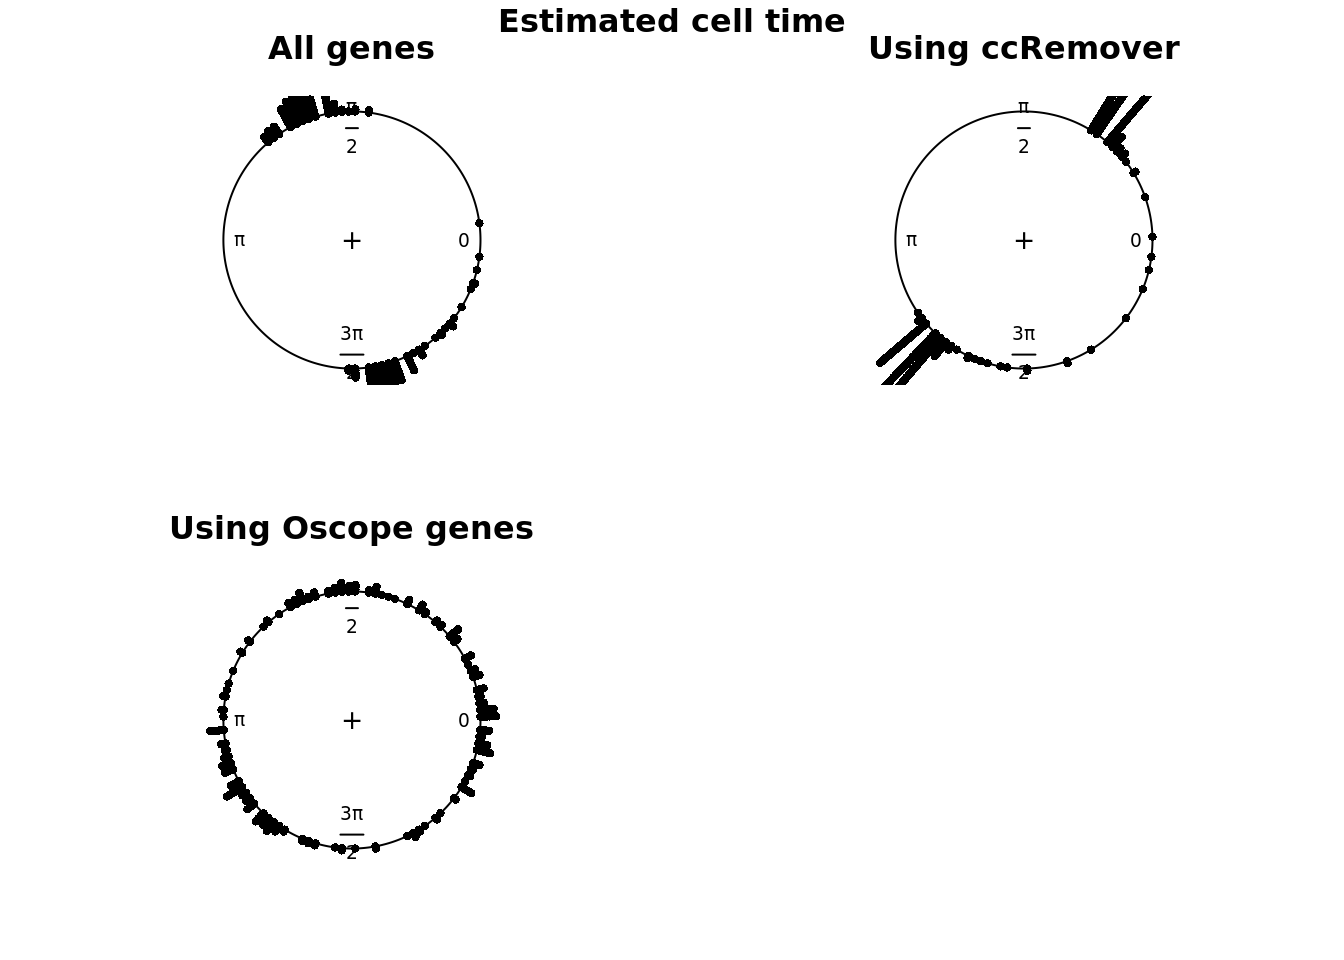
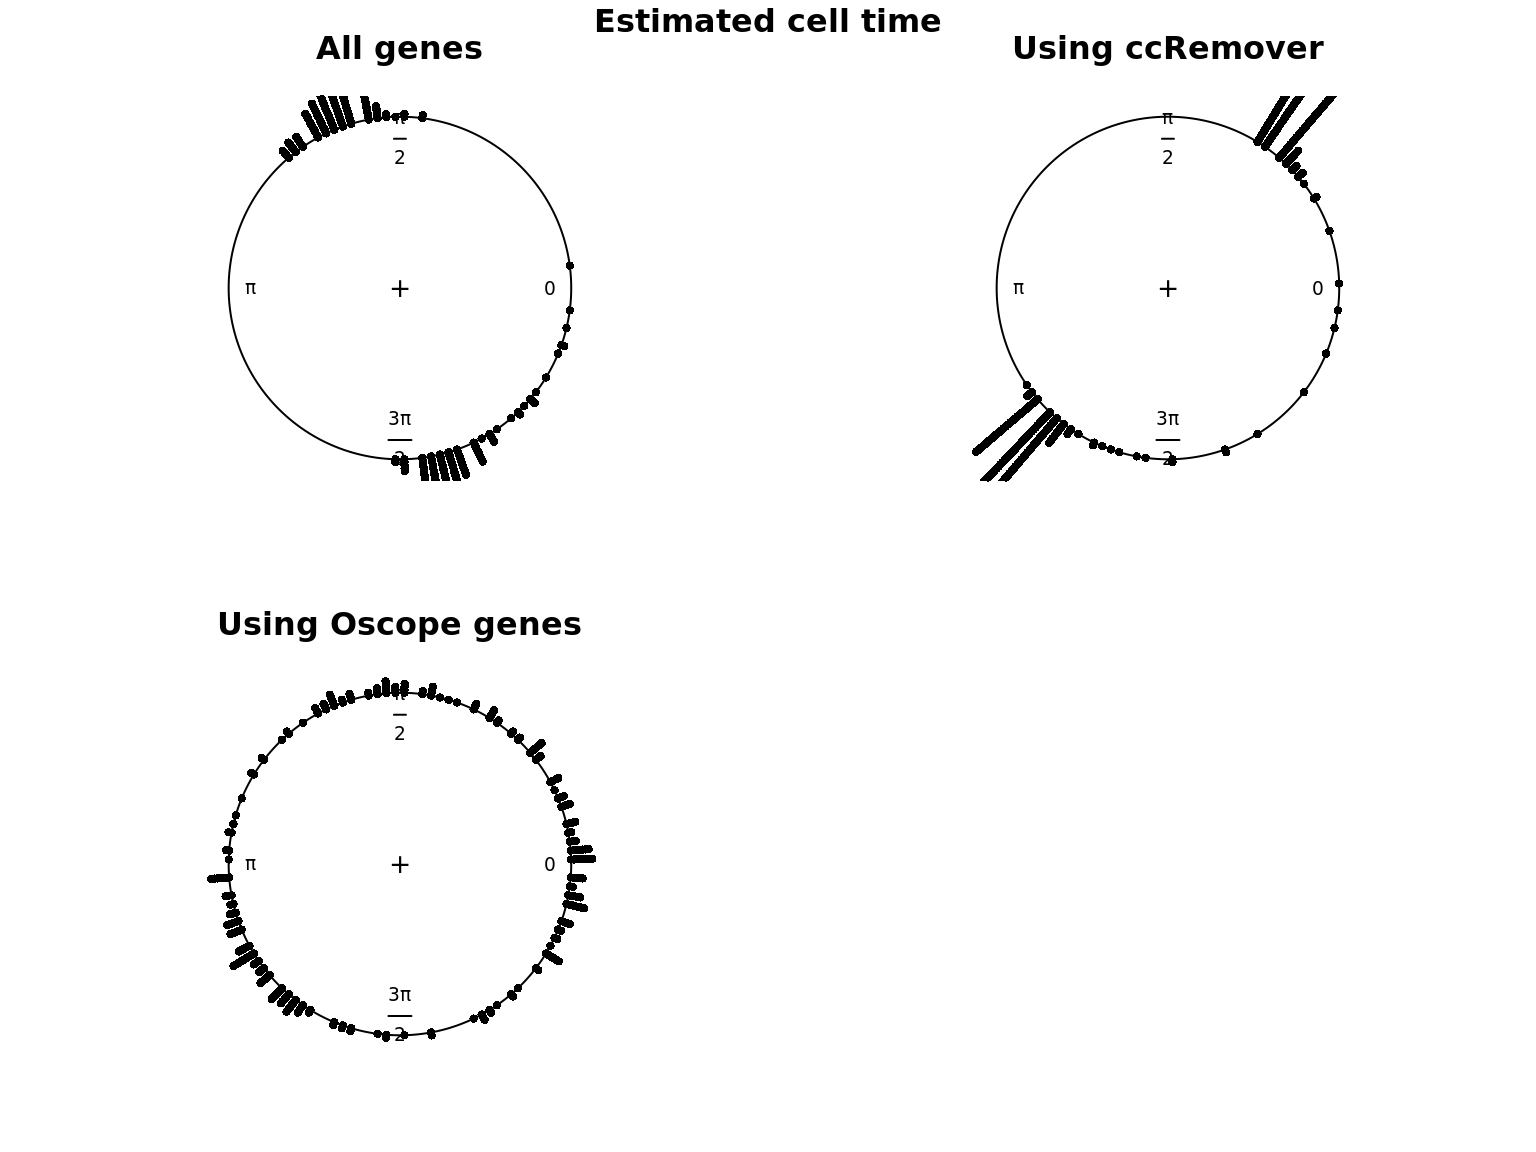
Build site.

diff --git a/docs/cellcycler-seqdata-leng.html b/docs/cellcycler-seqdata-leng.html
@@ -322,7 +322,7 @@ shared across the workflowr files. -->
 <p><strong>Last updated:</strong> 2018-02-08</p>
 <!-- Insert the code version (Git commit SHA1) if Git repository exists and R
  package git2r is installed -->
-<p><strong>Code version:</strong> fe90f57</p>
+<p><strong>Code version:</strong> 52e86d1</p>
 <hr />
 <div id="overviewresults" class="section level2">
 <h2>Overview/Results</h2>
@@ -333,6 +333,7 @@ shared across the workflowr files. -->
 <pre><code>1. Cell time estimates: Should span 0 to 2pi give that the samples collected including somewhat similar number of cells from each phase. This was observed for results using Oscope genes (29) but not for results using all genes or cell cycle annotated genes.
 
 2. Cell order: We exepct that at least the ordering of cells by cell time should match with the fucci-labeled cell cycle phases. This was the case for results using Oscope genes (29) but not for results using all genes or cell cycle annotated genes. </code></pre>
+<p>Additional analysis: I was thinking that perhaps cellcycleR doesn’t perform well when the number of cells in the different phases is uneven. And this could explain the poor performance on the fucci data. Or from the method perspective, it could be that the model doesn’t accommodate skewed/distored oscillation patterns in the data. I then created a dataset from the Leng data where there’s only 10 cells in G1. Results show that (at the end of this page) most G1 cells are estimated to be similar to G2 cells according to the estimated cell ordering…</p>
 <hr />
 </div>
 <div id="data-and-packages" class="section level2">
@@ -396,8 +397,8 @@ colnames(log2cpm_leng_z) &lt;- colnames(log2cpm_leng)</code></pre>
 <p><img src="figure/cellcycler-seqdata-leng.Rmd/unnamed-chunk-3-1.png" width="672" style="display: block; margin: auto;" /></p>
 <hr />
 </div>
-<div id="analysis" class="section level2">
-<h2>Analysis</h2>
+<div id="main-analysis" class="section level2">
+<h2>Main analysis</h2>
 <p>Fitting cellcycleR using the same 3 random seeds for each analysis.</p>
 <pre class="r"><code>seeds &lt;- c(101,231,456)
 
@@ -441,33 +442,54 @@ fit_leng_oscope &lt;- fit_leng_oscope_list[[which.max(sapply(fit_leng_oscope_lis
 <div id="results" class="section level2">
 <h2>Results</h2>
 <p>Distribution of cell times</p>
-<pre class="r"><code>par(mfrow=c(2,2), mar=c(3,2,3,1))
-xy &lt;- data.frame(x=fit_leng$cell_times,
-                 y=droplevels(pdata_leng$cell_state))
-xy &lt;- xy[order(xy$x),]
-plot(circular(xy$x, units=&quot;radians&quot;), pch=16, cex=.7,
-     main = &quot;All genes&quot;, stack=T, bins=120)
-
-xy &lt;- data.frame(x=fit_leng_ccremover$cell_times,
-                 y=droplevels(pdata_leng$cell_state))
-xy &lt;- xy[order(xy$x),]
-plot(circular(xy$x, units=&quot;radians&quot;), pch=16, cex=.7,
-     main = &quot;Using ccRemover&quot;, stack=T, bins=120)
-
-xy &lt;- data.frame(x=fit_leng_oscope$cell_times,
-                 y=droplevels(pdata_leng$cell_state))
-xy &lt;- xy[order(xy$x),]
-plot.circular(circular(xy$x, units=&quot;radians&quot;), pch=16, cex=.7,
-     main = &quot;Using Oscope genes&quot;, stack=T, bins=120)
-
-title(main=&quot;Estimated cell time&quot;, outer = TRUE, line = -1)</code></pre>
-<p><img src="figure/cellcycler-seqdata-leng.Rmd/unnamed-chunk-6-1.png" width="672" style="display: block; margin: auto;" /></p>
+<p><img src="figure/cellcycler-seqdata-leng.Rmd/unnamed-chunk-6-1.png" width="768" style="display: block; margin: auto;" /></p>
 <p>Estimated cell time and FUCCI labels</p>
 <p><img src="figure/cellcycler-seqdata-leng.Rmd/unnamed-chunk-7-1.png" width="672" style="display: block; margin: auto;" /></p>
 <p>Estimated cell time and sorted phase</p>
 <p><img src="figure/cellcycler-seqdata-leng.Rmd/unnamed-chunk-8-1.png" width="672" style="display: block; margin: auto;" /></p>
+<p>Results on the same data. Visualize on circular plot.</p>
+<p><img src="figure/cellcycler-seqdata-leng.Rmd/unnamed-chunk-9-1.png" width="768" style="display: block; margin: auto;" /></p>
 <p><strong>gene profiles</strong></p>
-<p><img src="figure/cellcycler-seqdata-leng.Rmd/unnamed-chunk-9-1.png" width="864" style="display: block; margin: auto;" /></p>
+<p><img src="figure/cellcycler-seqdata-leng.Rmd/unnamed-chunk-10-1.png" width="672" style="display: block; margin: auto;" /></p>
+<hr />
+</div>
+<div id="subsampling" class="section level2">
+<h2>Subsampling</h2>
+<p>Goal: To test the fit of cellcycleR on dataset with small proportion of G1 cells.</p>
+<p>Method: Here I am using the Oscope genes to see if cellcycleR still performs well with a small dataset.</p>
+<pre class="r"><code>seeds &lt;- c(101,231,456)
+fit_leng_oscope_short_list &lt;- vector(&quot;list&quot;, length(seeds))
+
+pdata_leng$cell_state &lt;- as.character(pdata_leng$cell_state)
+
+g1_cells &lt;- which(as.character(pdata_leng$cell_state) == &quot;G1&quot;)
+which_subsample &lt;- g1_cells[sample(length(g1_cells), 81)]
+log2cpm_leng_oscope_short &lt;- log2cpm_leng_oscope[,-which_subsample]
+pdata_leng_short &lt;- pdata_leng[-which_subsample,]
+
+log2cpm_leng_oscope_short_z &lt;- t(apply(log2cpm_leng_oscope_short, 1, scale))
+colnames(log2cpm_leng_oscope_short_z) &lt;- colnames(log2cpm_leng_oscope_short)
+
+for (i in 1:length(seeds)) {
+  set.seed(seeds[i])
+  fit_leng_oscope_short_list[[i]] &lt;- sin_cell_ordering_class(t(log2cpm_leng_oscope_short_z), 
+                                           celltime_levels=100, 
+                                           num_shuffle=1, maxiter=300, tol=1e-6,
+                                           fix.phase = FALSE, phase_in=NULL,
+                                           n_cores=8)
+}
+
+saveRDS(fit_leng_oscope_short_list, &quot;../output/cellcycler-seqdata-leng.Rmd/fit_leng_oscope_short.rds&quot;) 
+saveRDS(pdata_leng_short, &quot;../output/cellcycler-seqdata-leng.Rmd/pdata_leng_short.rds&quot;) </code></pre>
+<p>Load previously computed results.</p>
+<pre class="r"><code>fit_leng_oscope_short_list &lt;- readRDS(&quot;../output/cellcycler-seqdata-leng.Rmd/fit_leng_oscope_short.rds&quot;) 
+pdata_leng_short &lt;- readRDS(&quot;../output/cellcycler-seqdata-leng.Rmd/pdata_leng_short.rds&quot;) 
+
+fit_leng_oscope_short &lt;- fit_leng_oscope_short_list[[which.max(sapply(fit_leng_oscope_short_list, &quot;[[&quot;, &quot;loglik&quot;))]]</code></pre>
+<p>Results</p>
+<p><img src="figure/cellcycler-seqdata-leng.Rmd/unnamed-chunk-13-1.png" width="768" style="display: block; margin: auto;" /></p>
+<p>Results on the same data. Visualize on circular plot.</p>
+<p><img src="figure/cellcycler-seqdata-leng.Rmd/unnamed-chunk-14-1.png" width="768" style="display: block; margin: auto;" /></p>
 <hr />
 </div>
 <div id="session-information" class="section level2">
